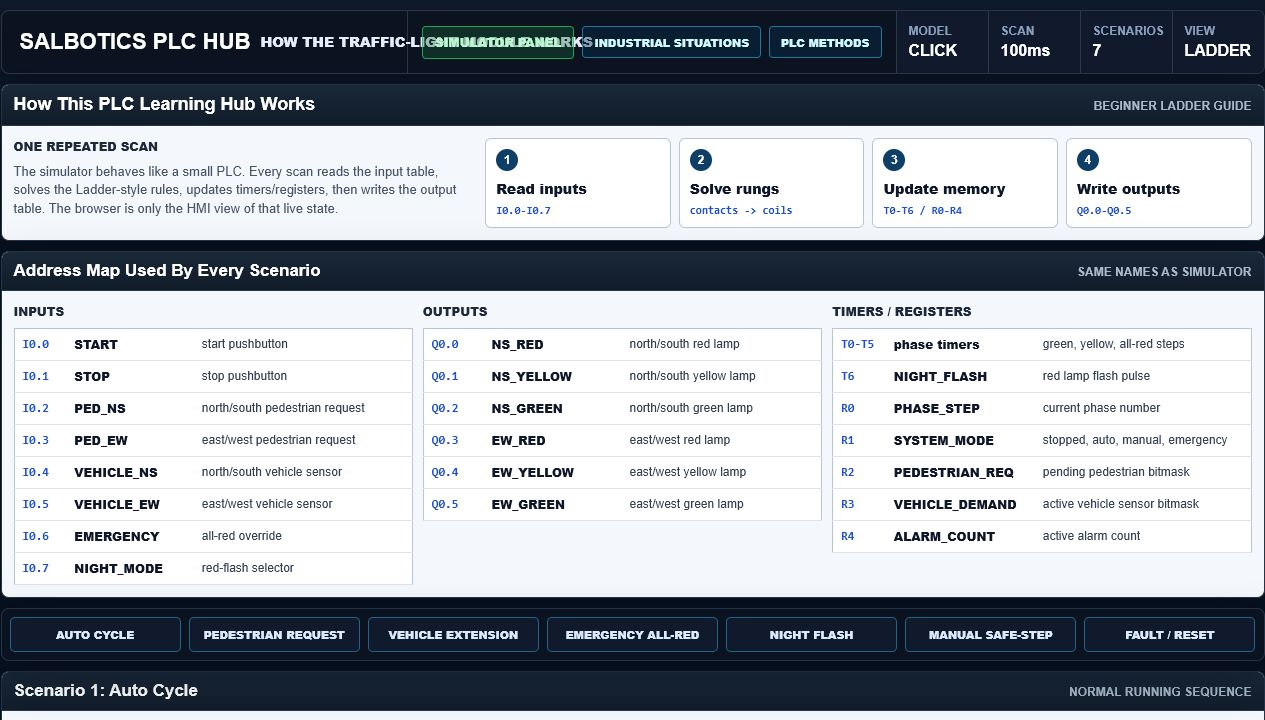
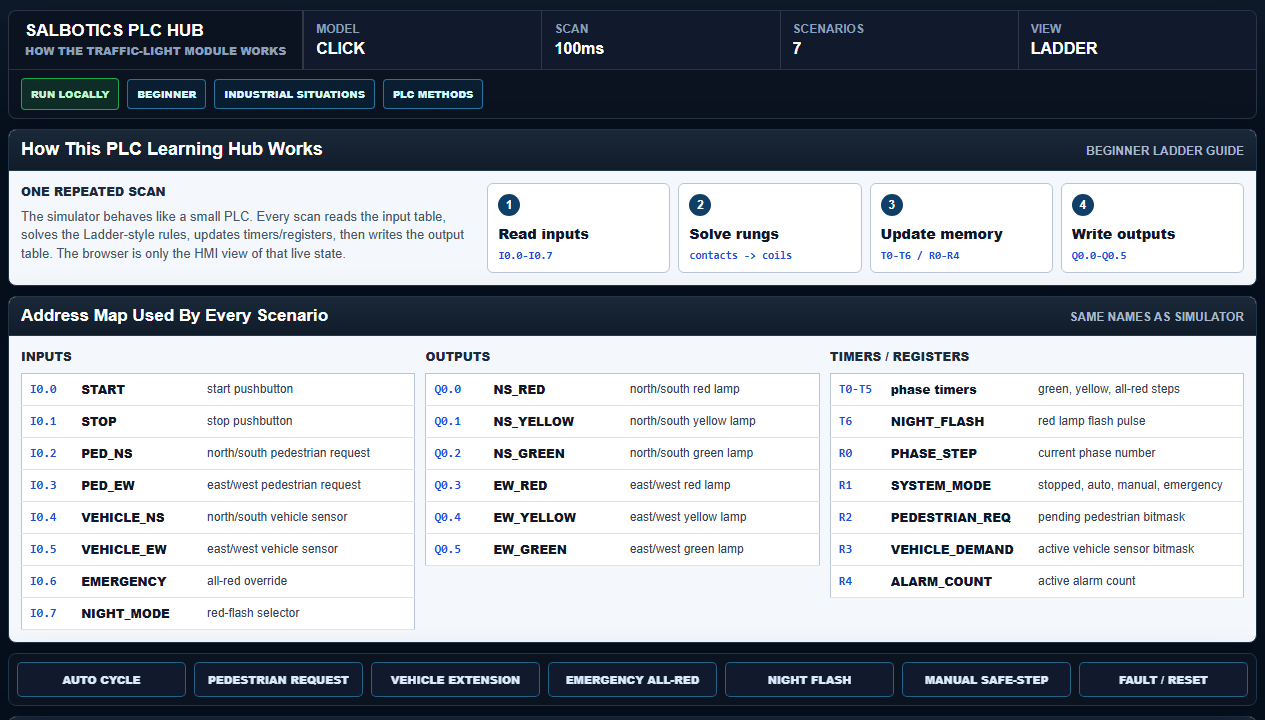
Docs: refresh screenshots; add beginner guide and phone views
Retake the four README screenshots at their original sizes (they predate
the BEGINNER tab) and add beginner-guide.png and mobile.png. Show both in
the README and the related wiki pages.

diff --git a/README.md b/README.md
@@ -38,7 +38,13 @@ Details: [docs/STATIC_DEMO_PUBLISHING.md](docs/STATIC_DEMO_PUBLISHING.md).
 
 ## Screenshots
 
-PLC/HMI dashboard:
+Screenshots refreshed 15 October 2026.
+
+Beginner guide (start page of the live site):
+
+![Beginner guide start page](docs/screenshots/beginner-guide.png)
+
+PLC/HMI dashboard (local simulator):
 
 ![Salbotics PLC Learning Hub dashboard](docs/screenshots/dashboard.png)
 
@@ -53,6 +59,10 @@ Oil-palm industrial environment:
 Programming methods and flowcharts:
 
 ![Programming methods page](docs/screenshots/programming-methods.png)
+
+On a phone: MENU button, calmer text and collapsed sections with a Jump to section menu:
+
+<img src="docs/screenshots/mobile.png" alt="Oil-palm page on a phone with MENU button and collapsed sections" width="320">
 
 ## What You Can Learn
 

diff --git a/docs/wiki/Beginner-Guide.md b/docs/wiki/Beginner-Guide.md
@@ -6,6 +6,8 @@ gives the technical name beside each idea.
 - Live: https://salbotics.uk/salbotics-plc-learning-hub/
 - Source: `static/beginner-guide.html`
 
+![Beginner guide start page](https://raw.githubusercontent.com/SaladinIART/salbotics-plc-learning-hub/main/docs/screenshots/beginner-guide.png)
+
 ## What It Covers
 
 | Section | Everyday example | Technical idea |

diff --git a/docs/wiki/Live-Site-And-Mobile.md b/docs/wiki/Live-Site-And-Mobile.md
@@ -25,6 +25,8 @@ python -m http.server 8080 --directory site-preview
 
 ## On Phones
 
+<img src="https://raw.githubusercontent.com/SaladinIART/salbotics-plc-learning-hub/main/docs/screenshots/mobile.png" alt="Oil-palm page on a phone" width="320">
+
 On screens under about 760 px (desktop is unchanged):
 
 - **MENU button** replaces the full link bar.
